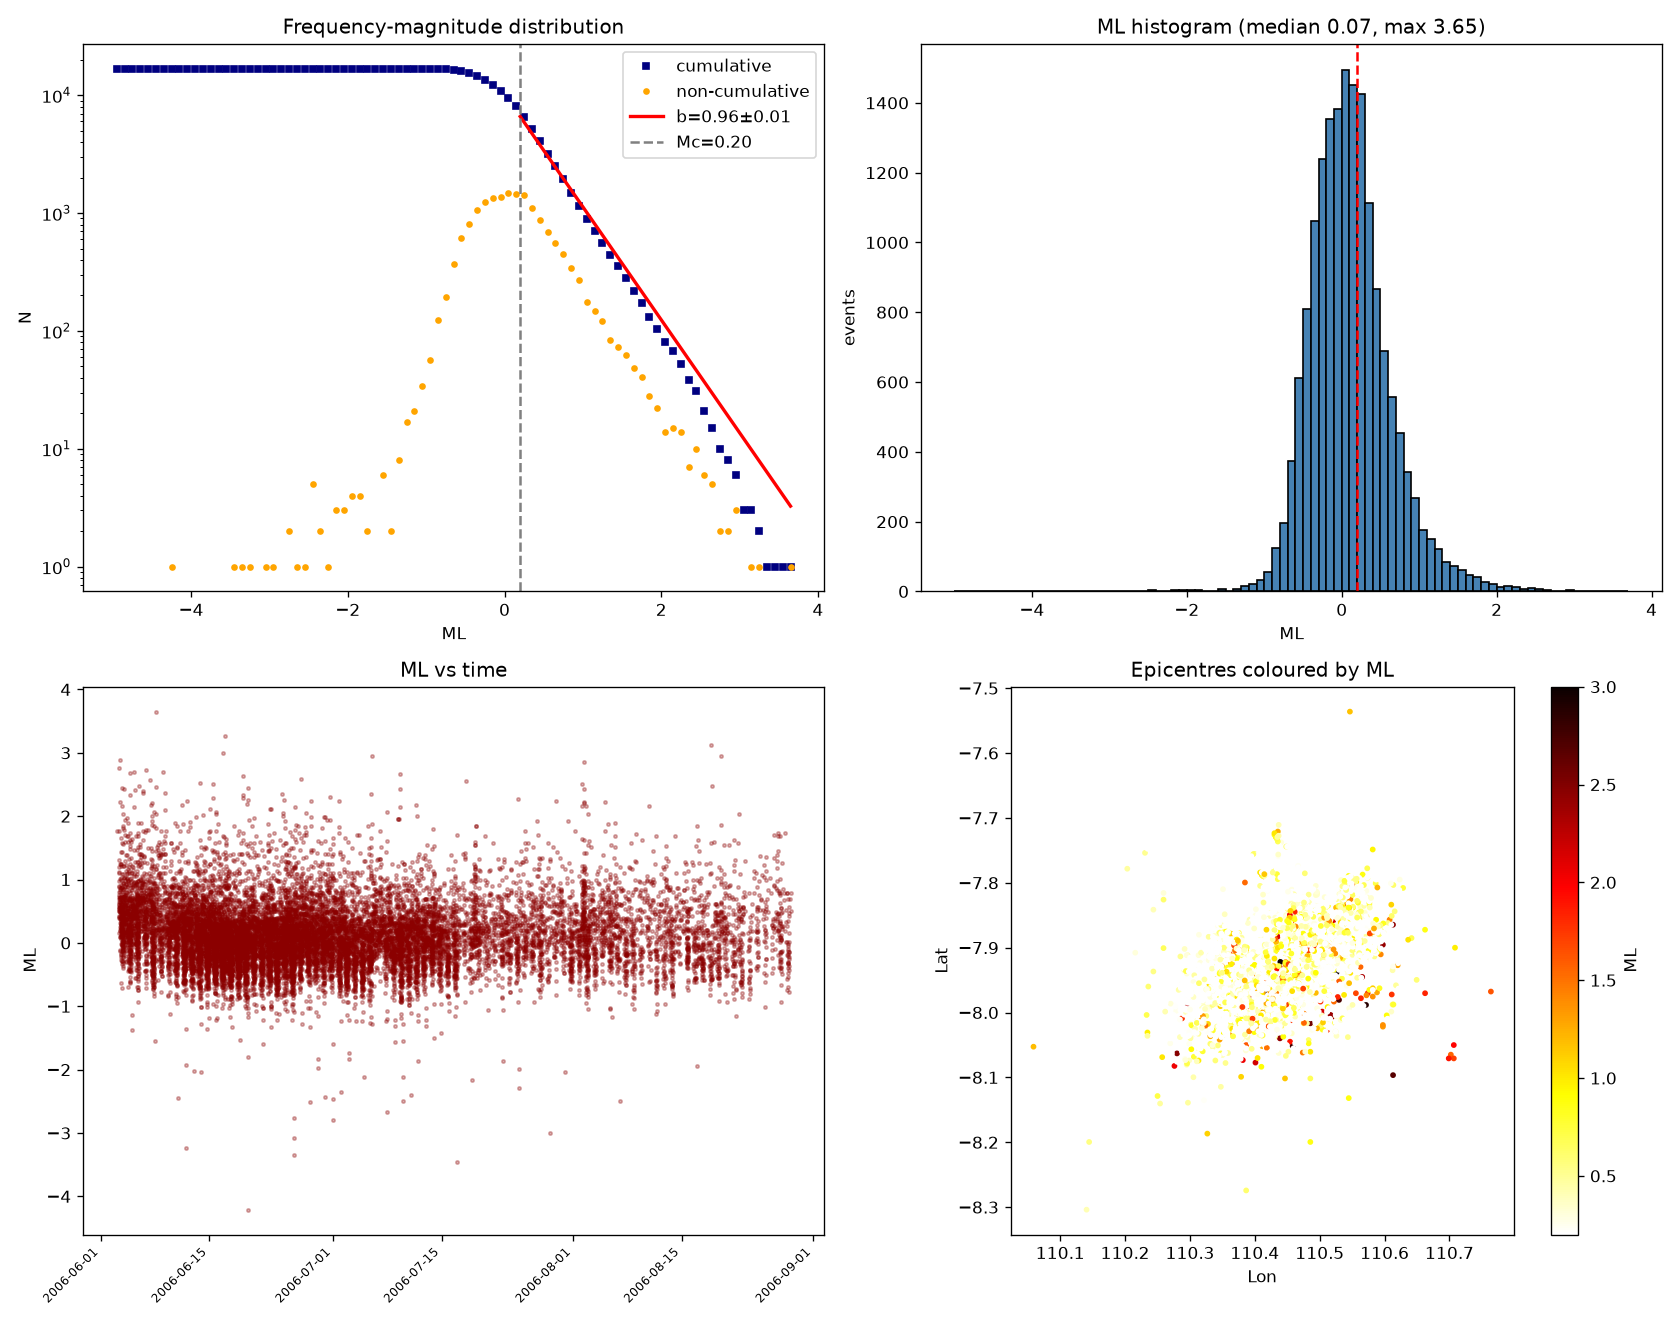
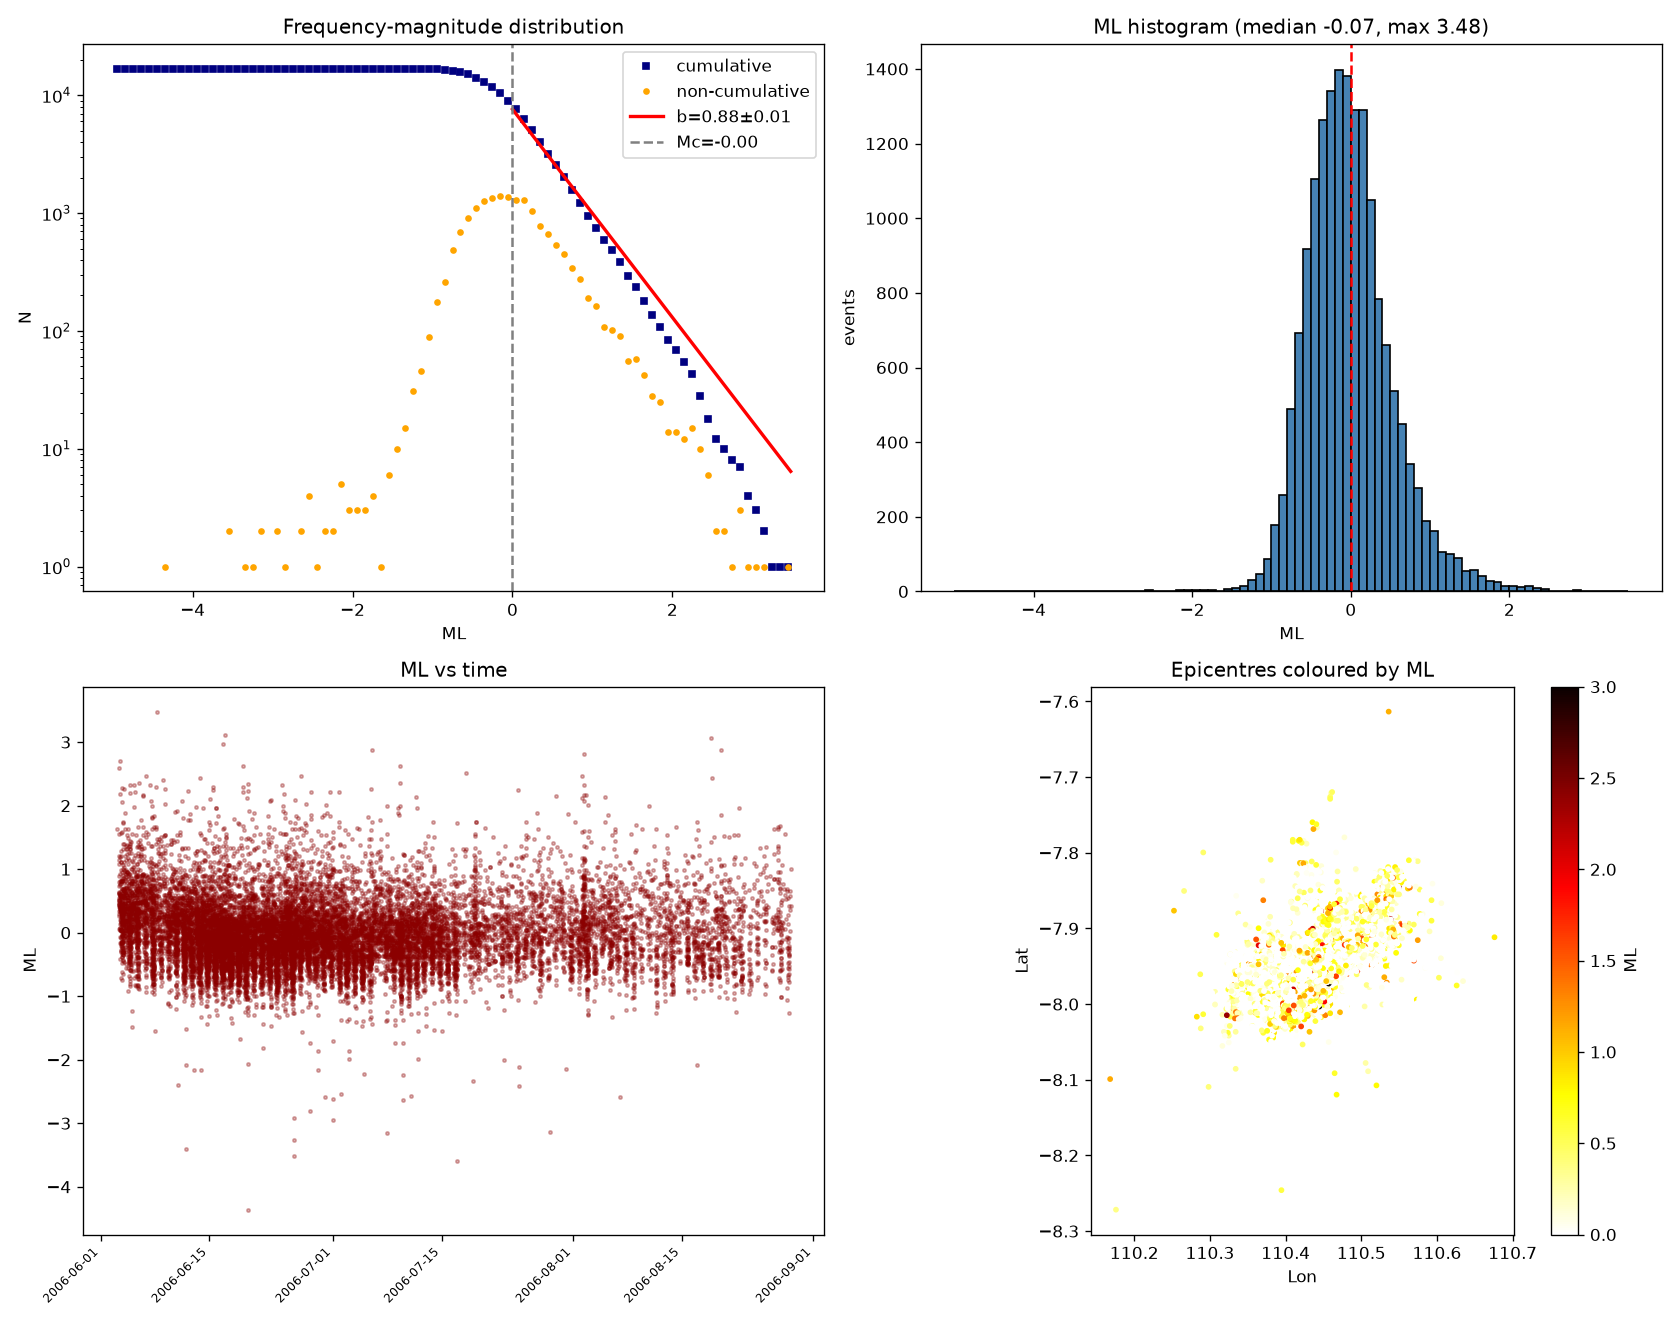
Recompute ML (refined depths: b=0.88); add magnitude-scaled map + Omori decay (p=1.05)

diff --git a/eqt/scripts/plot_relief_mag.py b/eqt/scripts/plot_relief_mag.py
@@ -1,0 +1,60 @@
+#!/usr/bin/env python3
+"""Aftershock hypocentres over Yogyakarta relief: marker SIZE ~ ML, COLOR ~ depth.
+Runs in the `gmt` env. Saves eqt/figures/aftershock_magnitude_map.png
+"""
+import os
+import numpy as np, pandas as pd
+import pygmt
+
+ROOT = os.path.abspath(os.path.join(os.path.dirname(__file__), ".."))
+
+def load_stations():
+    rows=[]
+    for l in open(f"{ROOT}/config/stations_xn_meta.txt"):
+        p=l.strip().split("|")
+        if len(p)>=6: rows.append((p[1],float(p[4]),float(p[5])))
+    return rows
+
+def main():
+    e=pd.read_csv(f"{ROOT}/full/catalog_magnitude.csv")
+    e=e[(e.gap<180) & (e.n_sta>=4)].copy()
+    e=e[e.ML>=-0.5]                       # drop the unreliable low tail
+    # marker size (cm) scaled with ML
+    mlc=e.ML.clip(-0.5,3.5)
+    e["size"]=0.04 + 0.085*(mlc-(-0.5))
+    region=[110.15,110.72,-8.12,-7.70]
+    stations=load_stations()
+
+    fig=pygmt.Figure()
+    grid=pygmt.datasets.load_earth_relief(resolution="03s", region=region)
+    pygmt.makecpt(cmap="gray", series=[-1600,1600], continuous=True)
+    fig.grdimage(grid, region=region, projection="M16c", cmap=True,
+                 shading="+a315+nt0.35", frame=["WSne","xa0.1f0.05","ya0.1f0.05"])
+    fig.coast(region=region, projection="M16c", water="151/193/226",
+              shorelines="0.6p,black", rivers="a/0.4p,steelblue", resolution="f")
+    pygmt.makecpt(cmap="turbo", series=[0,20])
+    fig.plot(x=e.longitude, y=e.latitude, size=e["size"], fill=e.depth, cmap=True,
+             style="cc", pen="0.2p,black", transparency=15)
+    slon=[s[2] for s in stations]; slat=[s[1] for s in stations]
+    fig.plot(x=slon, y=slat, style="t0.45c", fill="white", pen="1.2p,black")
+    for name,la,lo in stations:
+        fig.text(x=lo,y=la,text=name,font="9p,Helvetica-Bold,black",justify="CB",
+                 offset="0c/0.28c",fill="white@25",pen="0.25p,black")
+    fig.colorbar(cmap=True, frame=["x+lhypocentre depth","y+lkm"],
+                 position="JMR+o0.8c/0c+w9c/0.4c")
+    # ML size legend (reference circles near bottom-left)
+    lx = region[0]+0.05
+    for i,ml in enumerate([1.0,2.0,3.0]):
+        ly = region[2]+0.06+i*0.05
+        fig.plot(x=[lx], y=[ly], size=[0.04+0.085*(ml-(-0.5))], style="cc",
+                 fill="gray40", pen="0.4p,black")
+        fig.text(x=lx+0.03, y=ly, text=f"ML {ml:.0f}", font="8p,Helvetica,black", justify="LM")
+    fig.text(x=region[0]+0.015,y=region[3]-0.015,
+             text=f"Yogyakarta 2006 aftershocks — size~ML, colour~depth (n={len(e)})",
+             font="12p,Helvetica-Bold,black",justify="TL",offset="0.1c/-0.1c",
+             fill="white@20",pen="0.5p,black")
+    out=f"{ROOT}/figures/aftershock_magnitude_map.png"
+    fig.savefig(out,dpi=200); print(f"n={len(e)}; wrote {out}")
+
+if __name__=="__main__":
+    main()

diff --git a/eqt/scripts/plot_decay.py b/eqt/scripts/plot_decay.py
@@ -1,0 +1,47 @@
+#!/usr/bin/env python3
+"""Aftershock event-rate vs time (Omori decay) + cumulative count."""
+import os
+import numpy as np, pandas as pd
+from scipy.optimize import curve_fit
+import matplotlib; matplotlib.use("Agg"); import matplotlib.pyplot as plt
+
+ROOT = os.path.abspath(os.path.join(os.path.dirname(__file__), ".."))
+e = pd.read_csv(f"{ROOT}/full/catalog_magnitude.csv")
+e["t"] = pd.to_datetime(e["time"], utc=True)
+e = e[e.gap < 180]
+mc = 0.0
+daily = e.set_index("t").resample("D").size()
+daily_mc = e[e.ML >= mc].set_index("t").resample("D").size().reindex(daily.index, fill_value=0)
+
+# Omori: n(t) = K/(t+c)^p  (t in days since mainshock 2006-05-27)
+mainshock = pd.Timestamp("2006-05-27", tz="UTC")
+tdays = np.array([(d - mainshock).days + 0.5 for d in daily.index], dtype=float)
+y = daily.values.astype(float)
+m = tdays > 0
+def omori(t, K, c, p): return K/np.power(t+c, p)
+try:
+    popt,_ = curve_fit(omori, tdays[m], y[m], p0=[400,0.5,1.0],
+                       bounds=([1,0.01,0.3],[1e5,20,2.5]), maxfev=20000)
+    K,c,p = popt
+    fit_ok = True
+except Exception as ex:
+    print("Omori fit failed:", ex); fit_ok = False
+
+fig, ax = plt.subplots(1, 2, figsize=(15, 5.5))
+ax[0].bar(daily.index, daily.values, width=1.0, color="lightgray", label="all events")
+ax[0].bar(daily_mc.index, daily_mc.values, width=1.0, color="tab:red", alpha=0.8, label=f"ML ≥ {mc:g}")
+if fit_ok:
+    ax[0].plot(daily.index, omori(tdays, *popt), "b-", lw=2,
+               label=f"Omori: p={p:.2f}, c={c:.2f} d")
+ax[0].set_ylabel("events / day"); ax[0].set_title("Daily aftershock rate (Omori decay)")
+ax[0].legend(); plt.setp(ax[0].get_xticklabels(), rotation=45, ha="right", fontsize=8)
+ax[0].set_yscale("log"); ax[0].set_ylim(1, None)
+
+axc = ax[1]
+axc.plot(e.sort_values("t")["t"], np.arange(1, len(e)+1), color="navy", lw=2)
+axc.set_ylabel("cumulative number of events"); axc.set_title(f"Cumulative aftershocks (n={len(e)})")
+plt.setp(axc.get_xticklabels(), rotation=45, ha="right", fontsize=8)
+plt.tight_layout(); plt.savefig(f"{ROOT}/figures/aftershock_rate_decay.png", dpi=120)
+print(f"n={len(e)}  peak/day={daily.max()} on {daily.idxmax().date()}")
+if fit_ok: print(f"Omori p={p:.2f}, c={c:.2f} d, K={K:.0f}")
+print("wrote figures/aftershock_rate_decay.png")

diff --git a/eqt/scripts/compute_magnitudes.py b/eqt/scripts/compute_magnitudes.py
@@ -57,6 +57,11 @@ def main():
     ap.add_argument("--min_sta", type=int, default=3)
     a=ap.parse_args()
     amp=pd.read_csv(a.amp)
+    # use REFINED-catalog distances: merge measured amp_mm with refined dist+depth
+    pk=pd.read_csv(f"{ROOT}/full/picks_for_amp.csv")
+    pk["hypo_ref"]=np.sqrt(pk["dist"]**2 + pk["depth"]**2)
+    amp=amp.merge(pk[["evid","sta","hypo_ref"]], on=["evid","sta"], how="left")
+    amp["hypo_km"]=amp["hypo_ref"].fillna(amp["hypo_km"])   # fallback to stored if unmatched
     amp["ml"]=ml_pick(amp.amp_mm, amp.hypo_km)
     g=amp.groupby("evid")
     ev=g.agg(ML=("ml","median"), ML_std=("ml","std"), n_sta=("ml","size")).reset_index()
